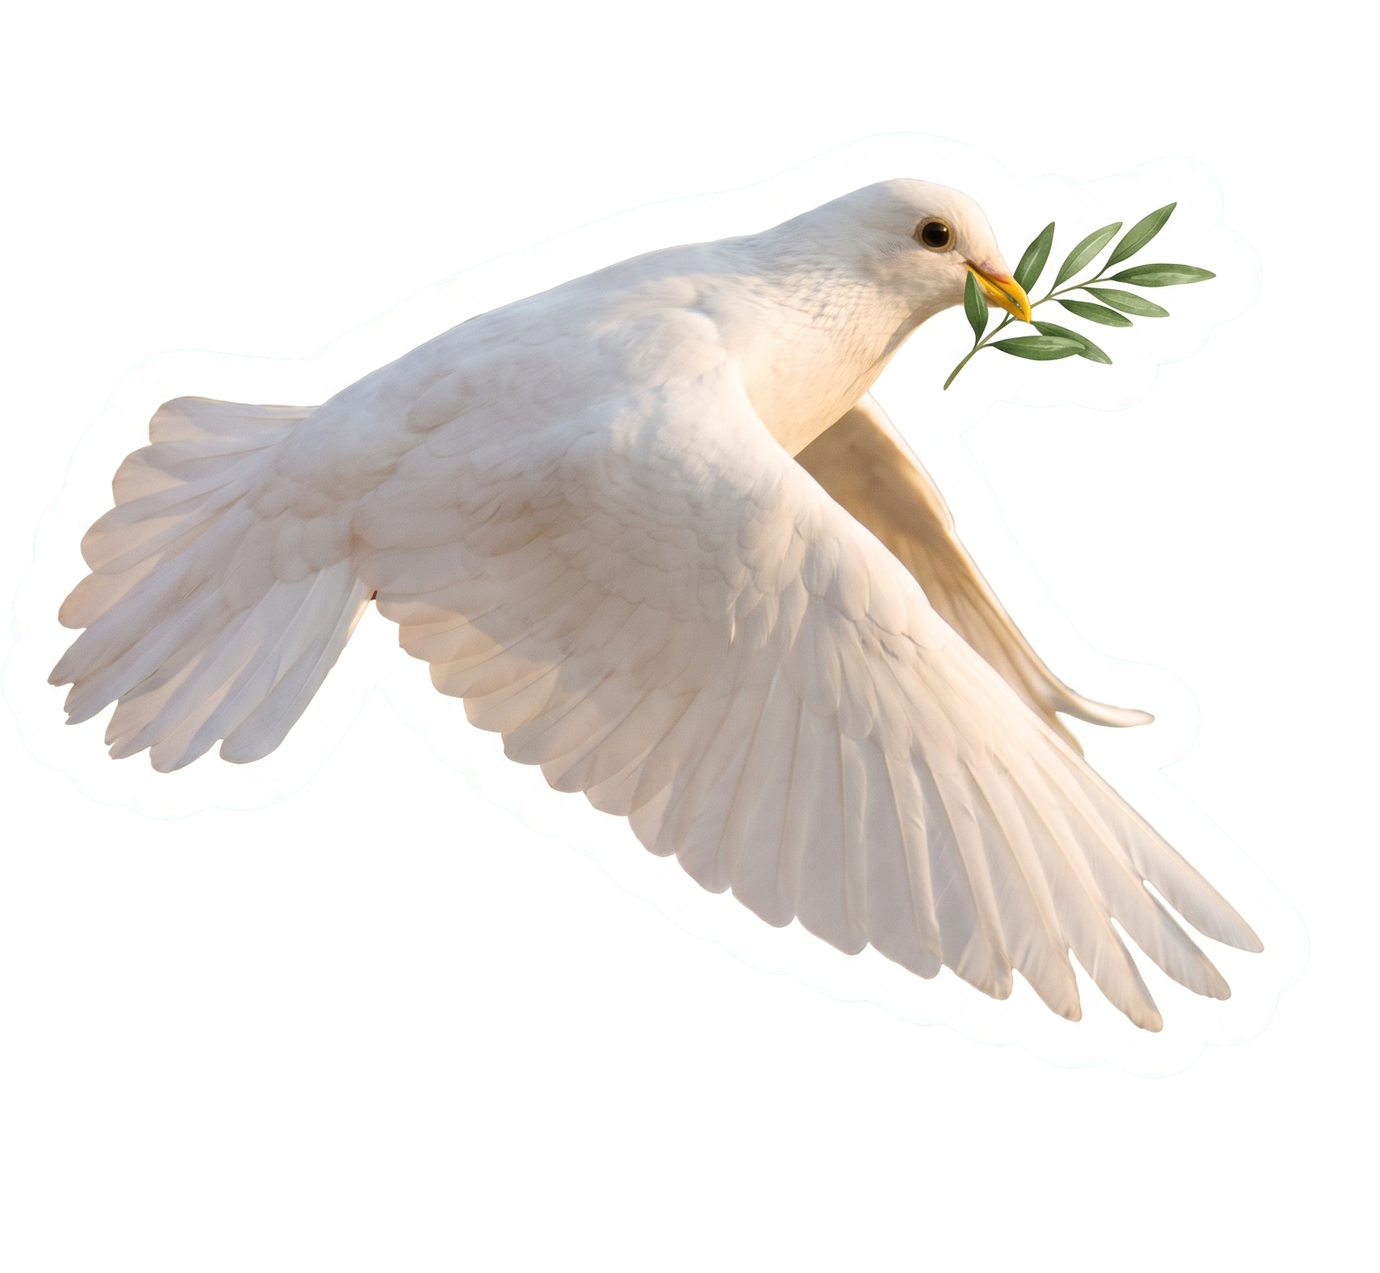
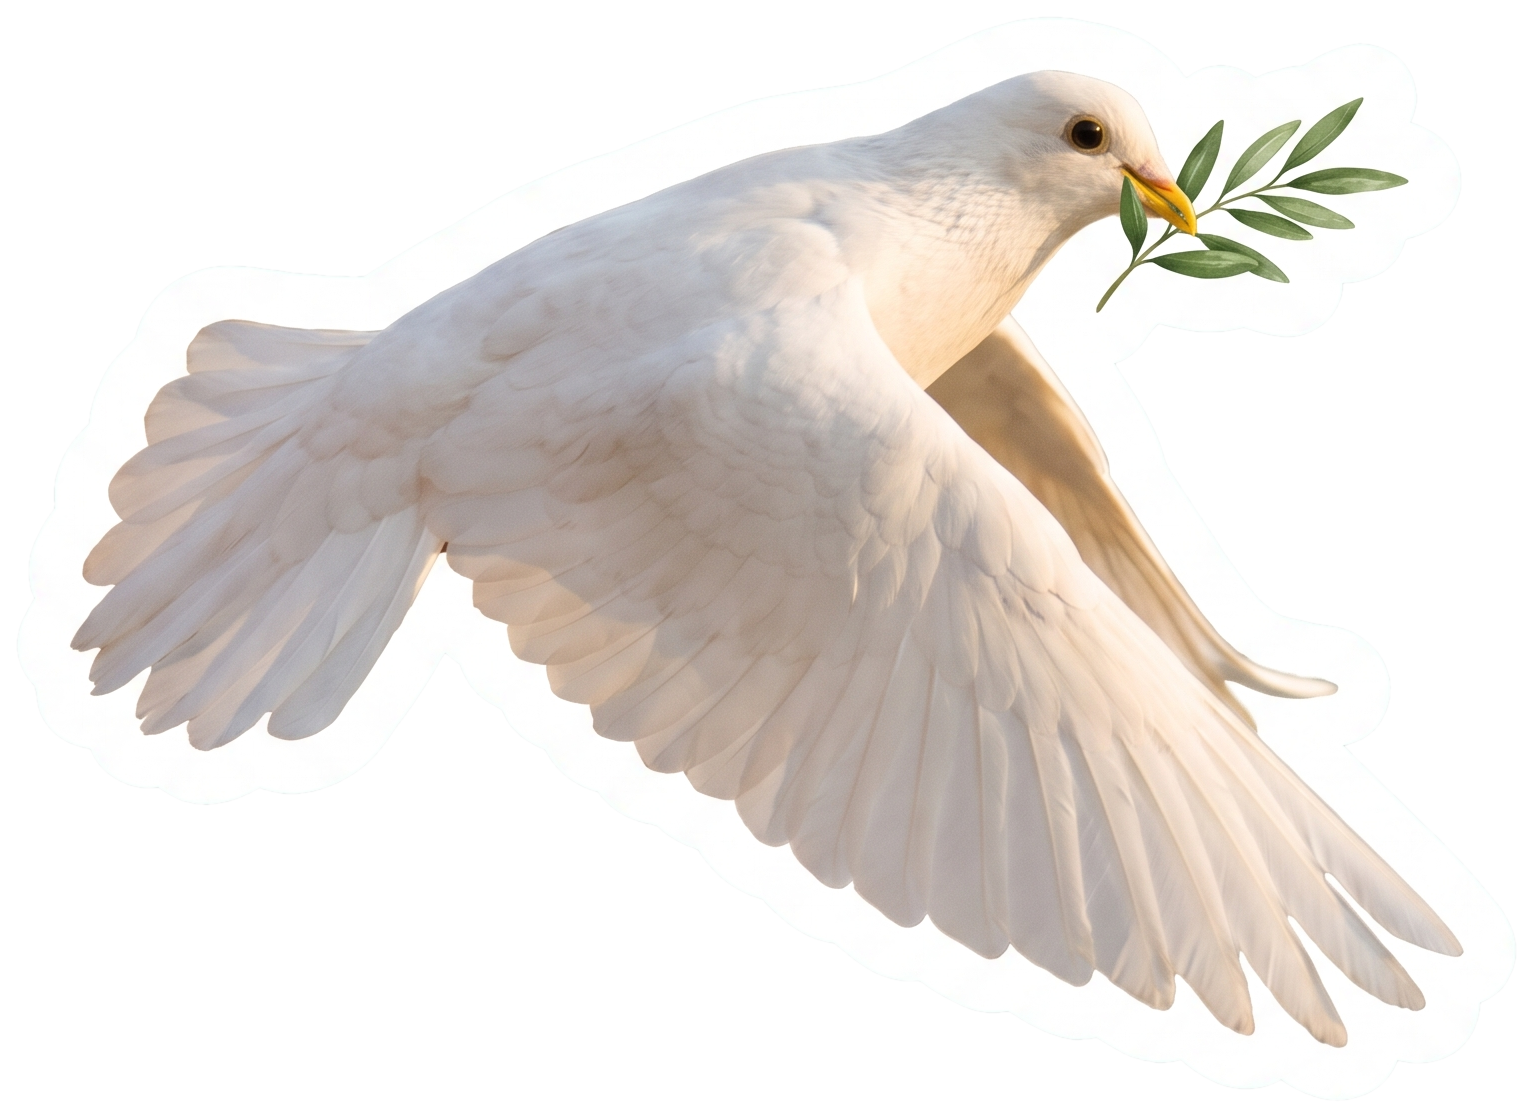
The dove sticker keeps its whole border, and dry runs stay out of git
Aligning the two poses on one canvas pushed the wings-up pose past the
canvas edge, so the landed dove showed a flat cut through the olive branch
and under the tail (caught by the cloud dry run). Each pose is now cut on its
own with a 16 px margin. The caption check no longer assumes a 7 AM plan, so
the 11 AM share days can reuse it.

diff --git a/tools/morning.py b/tools/morning.py
@@ -391,7 +391,7 @@ def caption_check(work):
         problems.append("hashtags must be lowercase")
     if "\U0001F56F Chasten is a free Bible app. chasten.ai" not in t:
         problems.append("missing the sign-off line")
-    if p["format"] != "reel":
+    if p.get("format") != "reel":
         for r in p["refs"]:
             if r not in t:
                 problems.append(f"missing the reference {r}")
